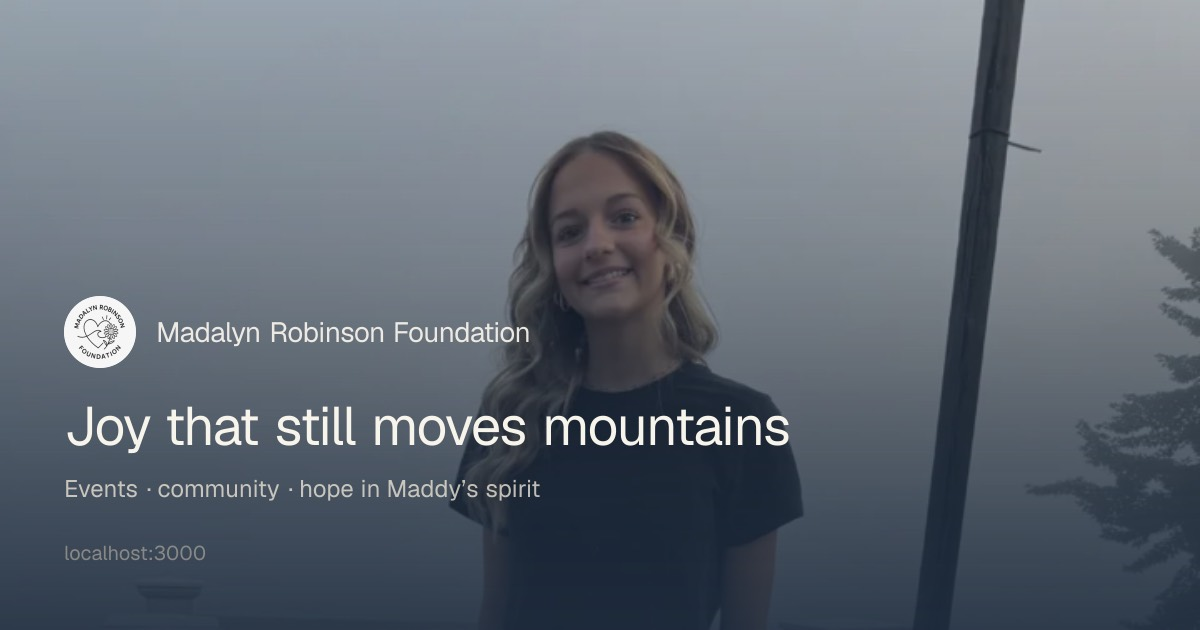
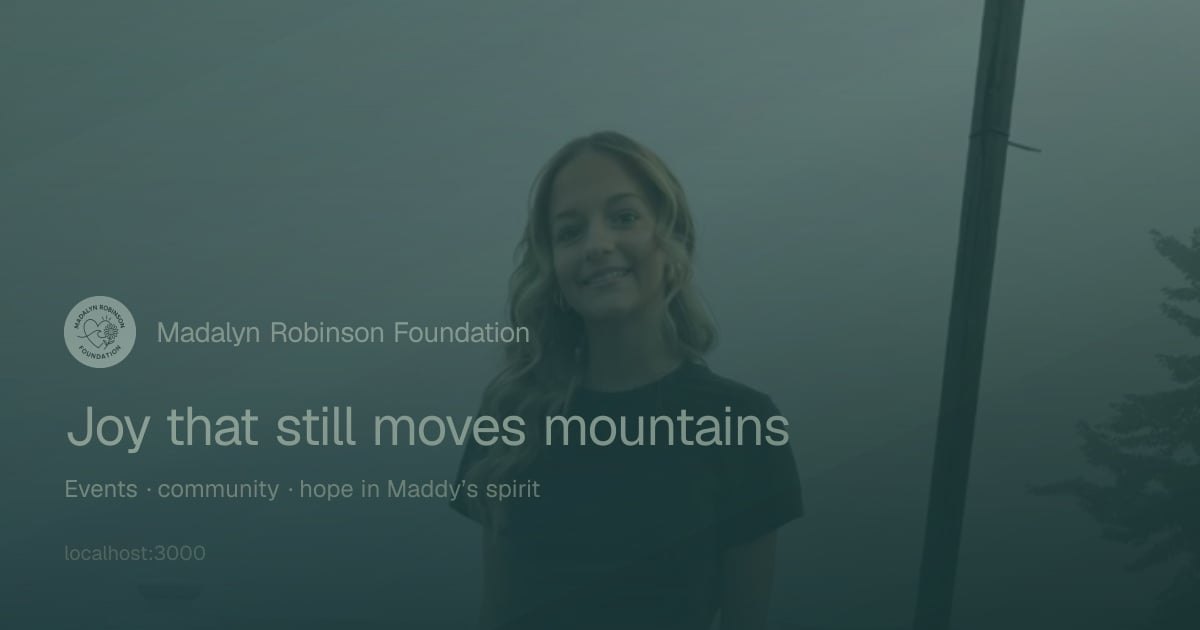
Give Open Graph cards a fairway green tint.
Static OG/Twitter JPEGs get a green veil; per-event ImageResponse uses the same deep green chrome.

diff --git a/app/events/[slug]/opengraph-image.tsx b/app/events/[slug]/opengraph-image.tsx
@@ -31,8 +31,9 @@ export default async function Image({
           flexDirection: "column",
           justifyContent: "space-between",
           padding: 56,
-          background: "linear-gradient(165deg, #1f2d3f 0%, #2a3a4d 55%, #6b7a48 140%)",
-          color: "#f7f4ec",
+          background:
+            "linear-gradient(165deg, #1c3d32 0%, #243f36 52%, #2f5346 100%)",
+          color: "#f4f1e8",
         }}
       >
         <div style={{ fontSize: 26, fontWeight: 600, opacity: 0.85 }}>{siteName}</div>
@@ -48,7 +49,7 @@ export default async function Image({
             {title}
           </div>
           {meta ? (
-            <div style={{ fontSize: 26, opacity: 0.88, color: "#e8e2d4" }}>{meta}</div>
+            <div style={{ fontSize: 26, opacity: 0.88, color: "#e5e0d2" }}>{meta}</div>
           ) : null}
         </div>
         <div
@@ -69,7 +70,7 @@ export default async function Image({
           >
             View event →
           </div>
-          <div style={{ fontSize: 20, opacity: 0.55, color: "#c8c0ae" }}>{host}</div>
+          <div style={{ fontSize: 20, opacity: 0.55, color: "#c5cfc8" }}>{host}</div>
         </div>
       </div>
     ),

diff --git a/README.md b/README.md
@@ -124,7 +124,7 @@ Cursor rule: `.cursor/rules/domain-cutover-cloudflare.mdc` (fires when you ask t
 - Logo: `public/brand/logo-96.webp` (chrome) · `logo.jpg` / `logo.webp` source
 - Maddy photo: responsive WebP (`maddy-640/960.webp` + `maddy.webp`) with JPEG fallback
 - Favicon / apple-touch: `app/favicon.ico` (16/32/48 from brand logo), `app/icon.png` **192**, `app/apple-icon.png` **180**
-- Open Graph: static `app/opengraph-image.jpg` + `twitter-image.jpg` (~70KB, 1200×630) + `opengraph-image.alt.txt`; per-event ImageResponse at `/events/[slug]/opengraph-image`
+- Open Graph: static `app/opengraph-image.jpg` + `twitter-image.jpg` (1200×630, fairway-green veil) + `opengraph-image.alt.txt`; per-event ImageResponse at `/events/[slug]/opengraph-image` (same green chrome)
 - Footer: Explore + Site columns, Privacy, optional contact, BraddCorp credit (LECYC pattern)
 - Type: Literata (display 400/600) + Source Sans 3 (body 400/500) — major-third scale
 - Performance: public home/events ISR (60s; register 30s); admin/register writes call `revalidatePublicEvents`; hero WebP preloaded; logo not priority; `/brand/*` long-cache
